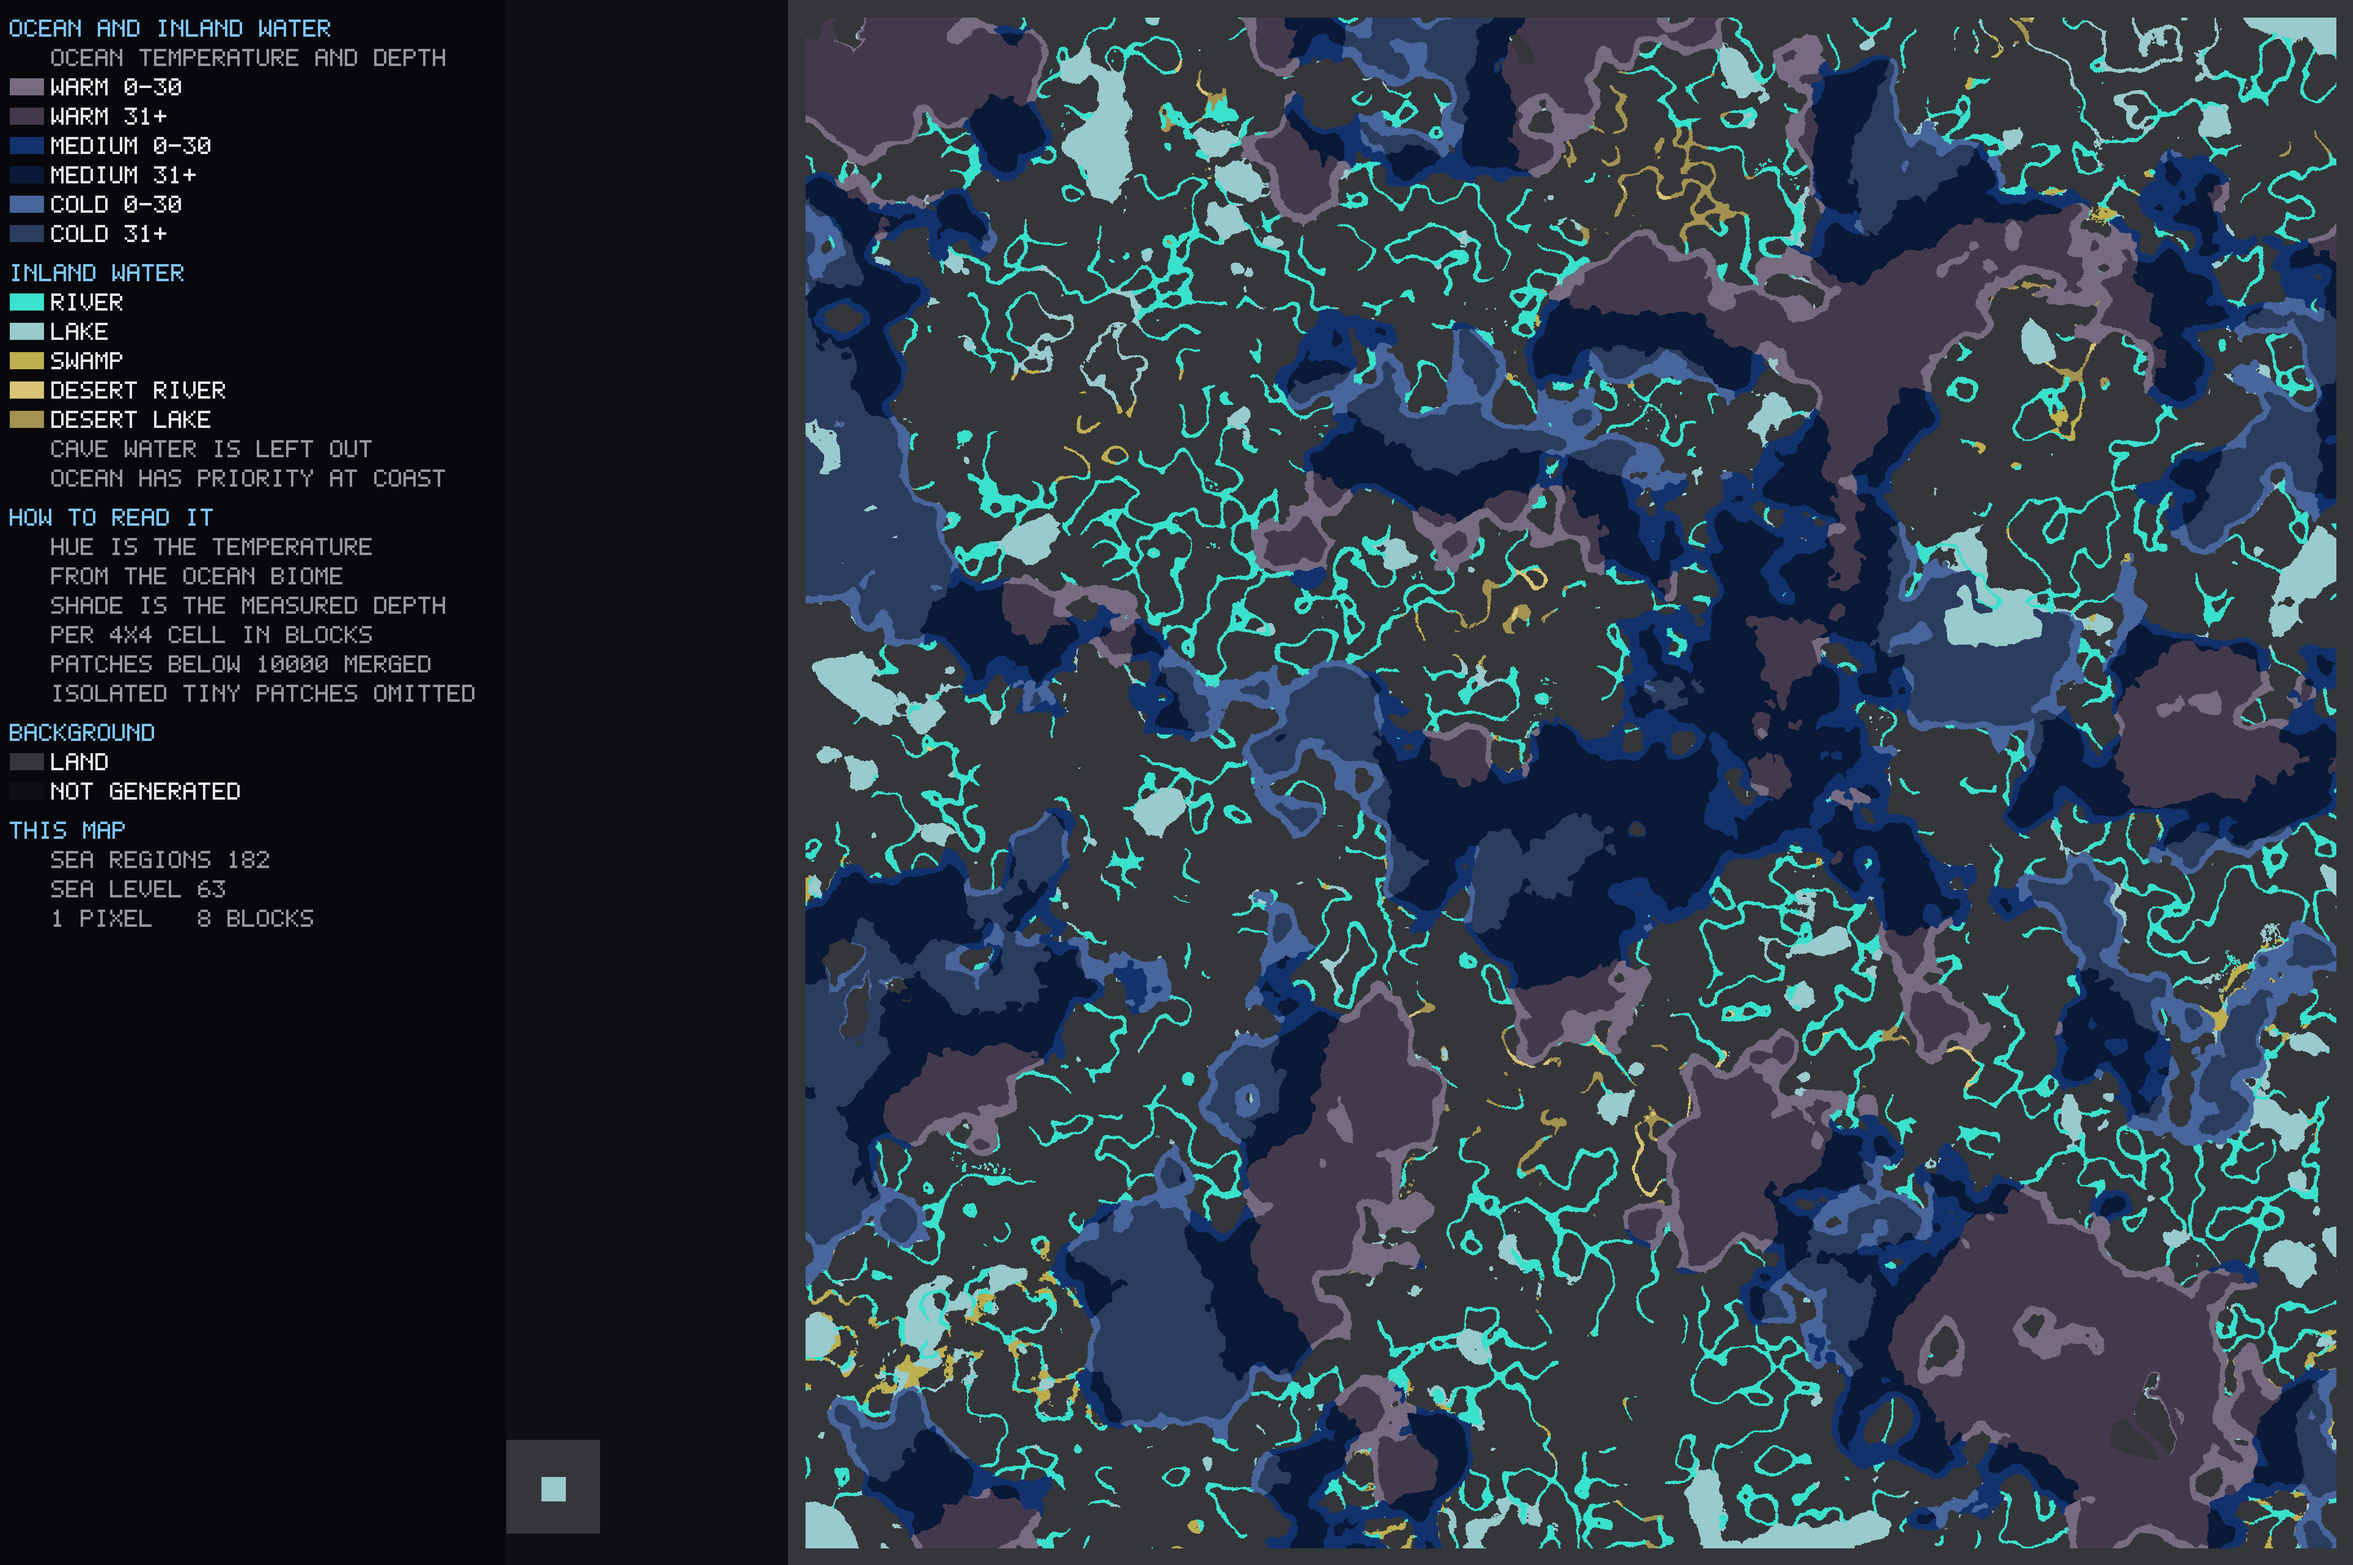
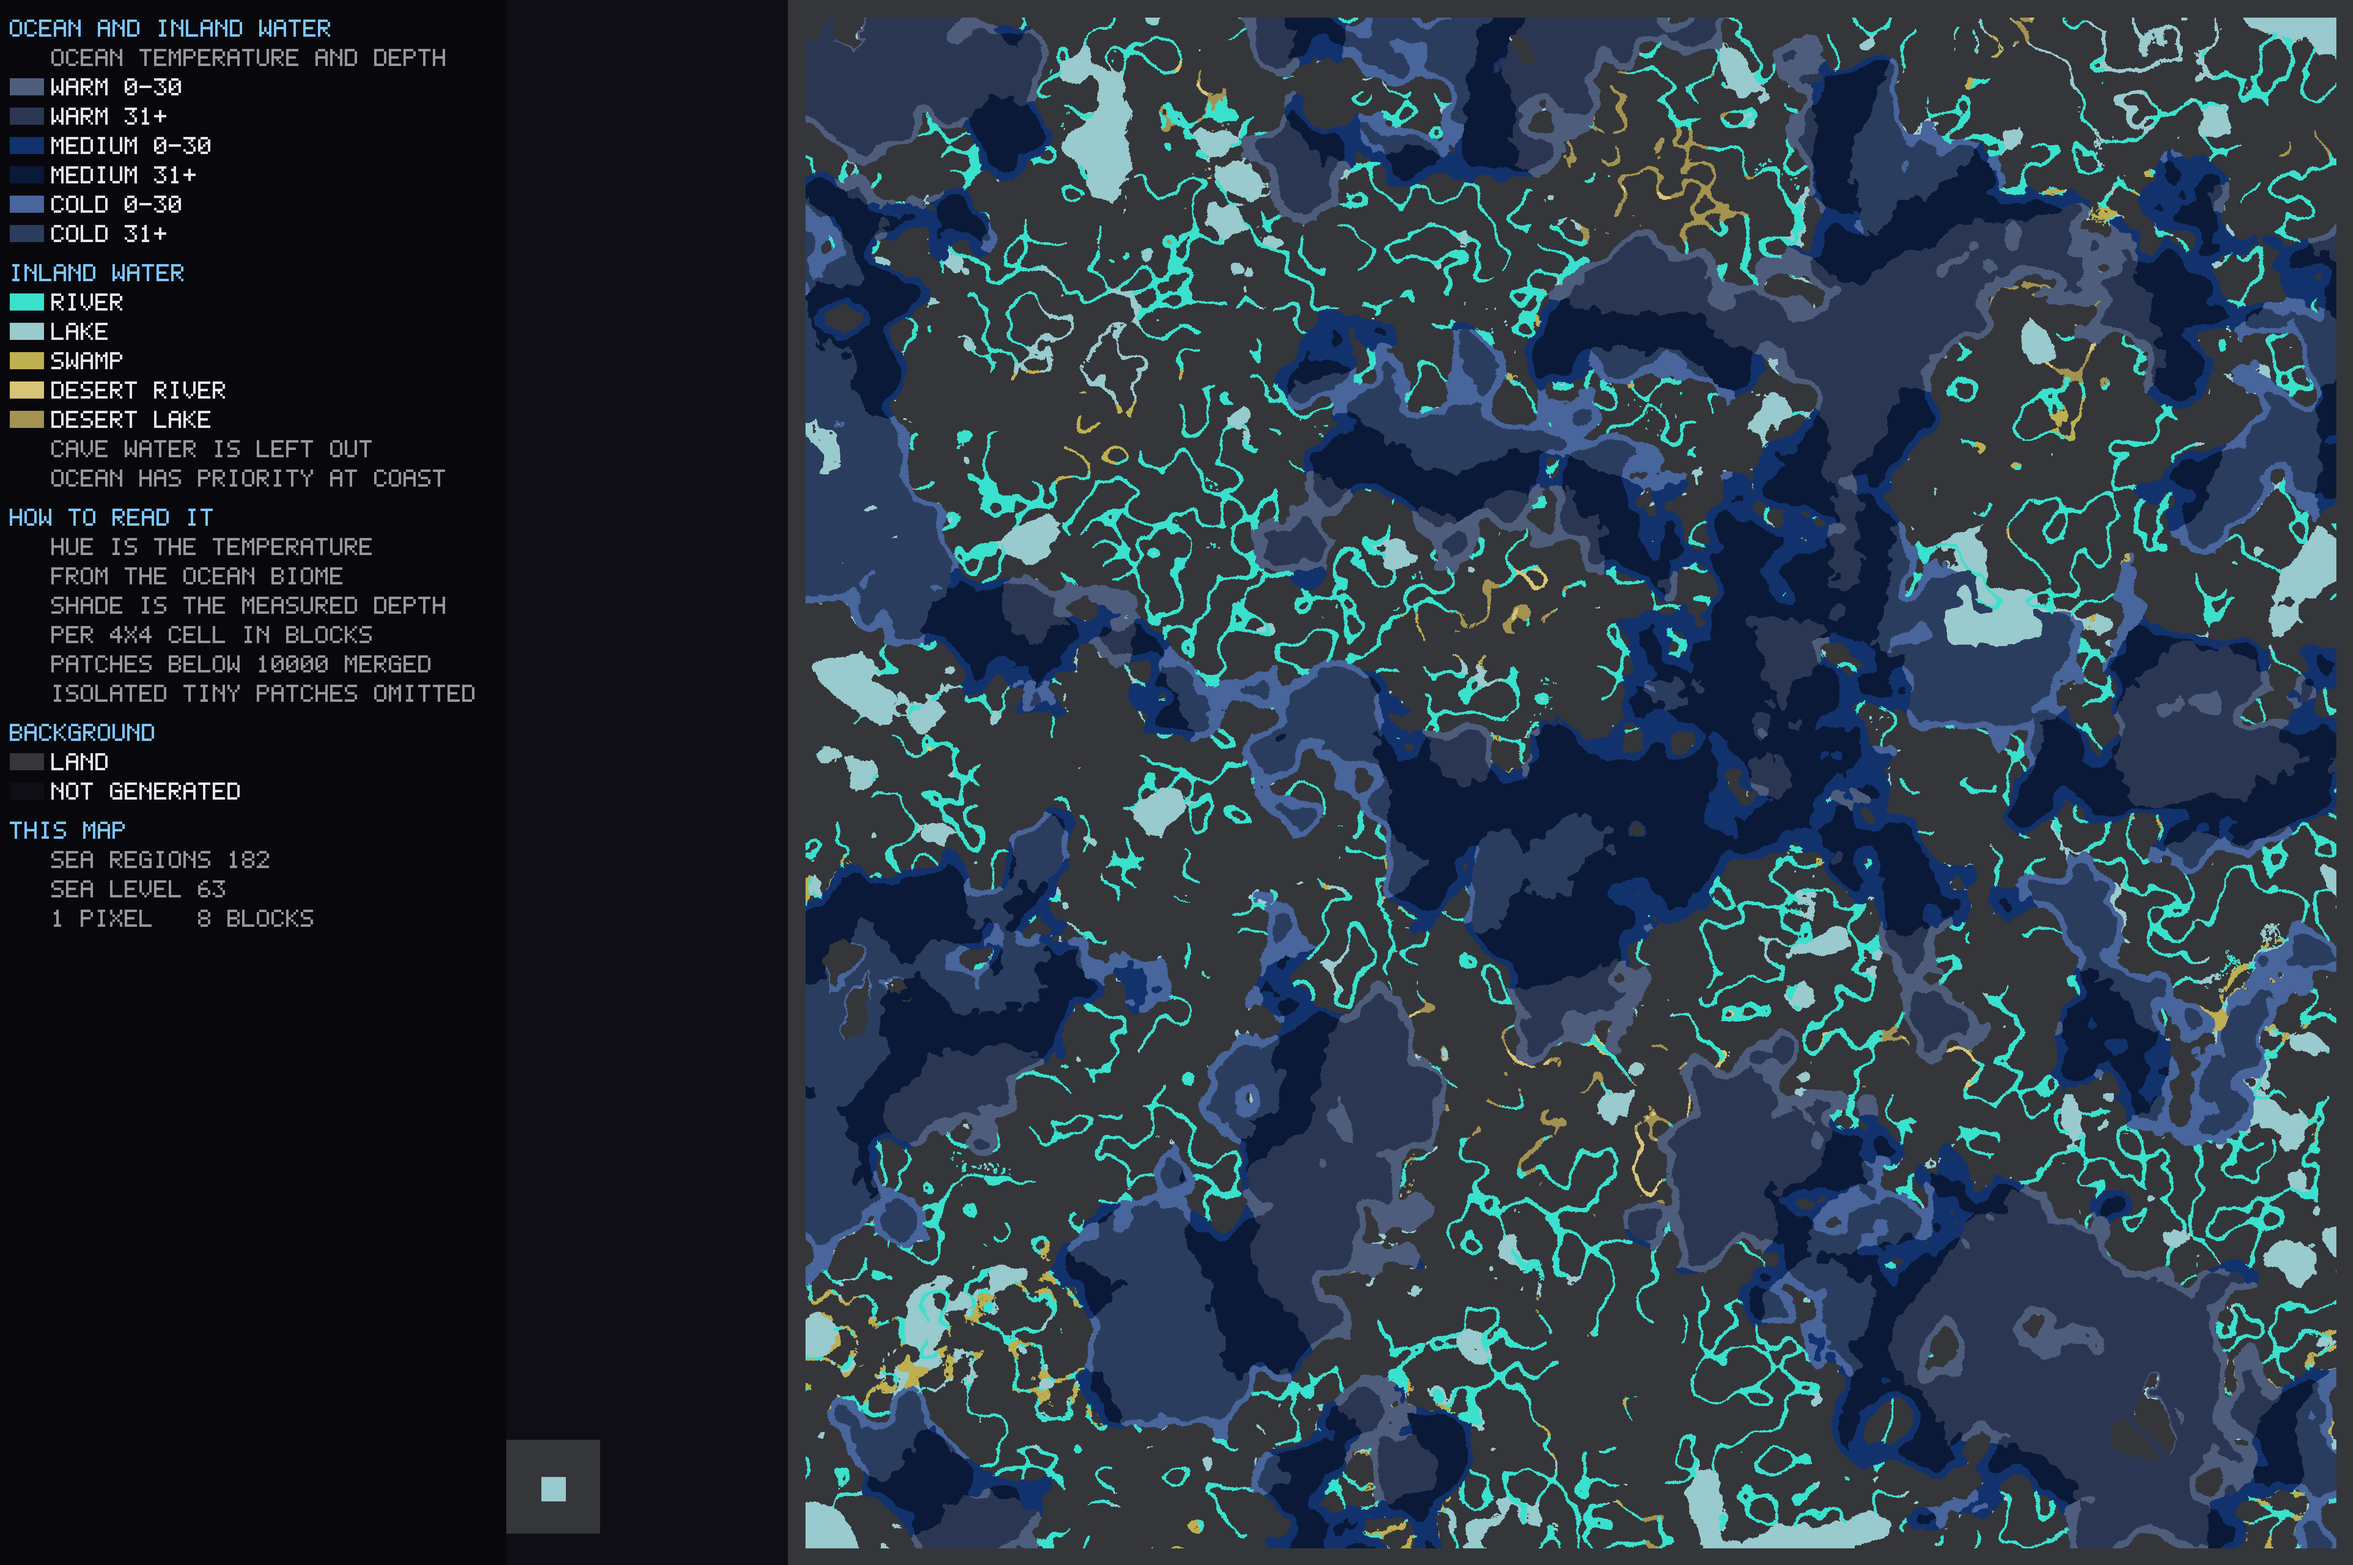
Harmonize warm ocean colors and explain small water regions

diff --git a/src/debug/map.rs b/src/debug/map.rs
@@ -722,8 +722,8 @@ fn depth_rows(sea_level: i16, blocks_per_pixel: u32) -> Vec<Row> {
 /// three bands squeezed onto one hue.
 fn ocean_color(temperature: Temperature, deep: bool) -> [u8; 3] {
     match (temperature, deep) {
-        (Temperature::Warm, false) => [0x76, 0x6b, 0x80],
-        (Temperature::Warm, true) => [0x43, 0x39, 0x4d],
+        (Temperature::Warm, false) => [0x4e, 0x5d, 0x7c],
+        (Temperature::Warm, true) => [0x2b, 0x37, 0x52],
         (Temperature::Medium, false) => [0x12, 0x32, 0x6e],
         (Temperature::Medium, true) => [0x09, 0x19, 0x37],
         (Temperature::Cold, false) => [0x48, 0x65, 0x9c],
